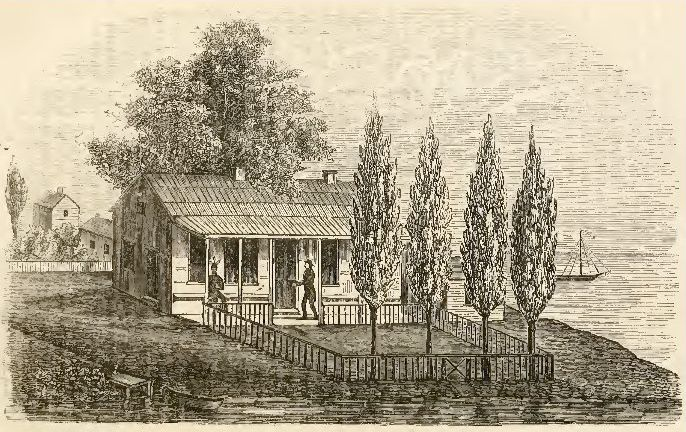
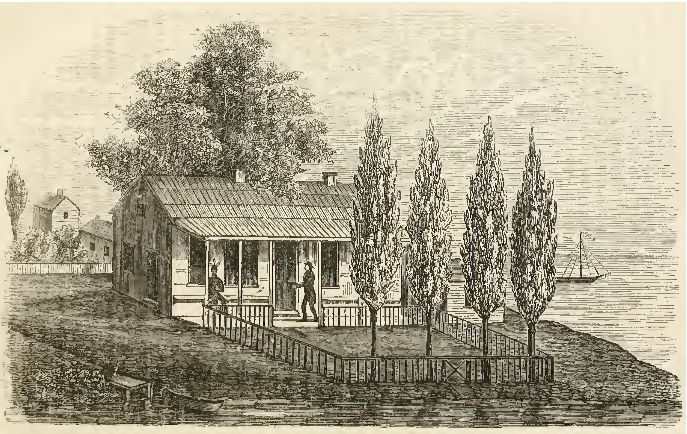
Landing: photo matches shot inside the live scene, best-verdict pairs, and the hero "g"
The owner asked for better matches than the Kimball house (its match
record reads "differs", 30 open differences) and for the model to be
shown in its surroundings rather than alone on a grey plane.

- Every 4D image is now rendered inside the live dev app (chicago.polecat.live/4d/dev/)
  from the reference view's own camera: data/reference_views/<id>/<view>.json's
  focal length, principal point (view offset), basis or yaw, pixel aspect and
  footprint-frame eye, carried into world coordinates through the structure's
  scene placement (local_e/local_n/rotation_deg, as tools/photo_match_group.mjs
  defines the frame) and the app's own ground height. Streets, neighbours,
  enclosures, furniture and terrain come with it; trees and flora are switched
  off because, in the app's summer, they hid the buildings.
- Six pairs, chosen by the match records' verdicts and image rights:
  1904 — Glessner House from the north-east (Taylor 2135, AIC, matches),
  the Keith house (Inland Architect Feb. 1888, cleared, matches), First
  Presbyterian Church (Otis 1913 plate of 1887, matches); 1835 — the
  Sauganash Hotel with Philo Carpenter's shop (Andreas 1884; close, 4 open
  differences), the Miller house at Wolf Point (Blanchard/Shober 1867,
  NYPL, matches); 1812 — the Kinzie house (Chicago Magazine 1857; close,
  8 open differences). Each card shows that verdict.
- Pairs keep their photograph's own aspect ratio.
- Hero: the headline's line mask clipped the "g" of Chicago; its bottom
[…]

diff --git a/site/index.html b/site/index.html
@@ -184,8 +184,9 @@
       <div class="kick">Photo-matched · then and the model</div>
       <h2>Held up against <em>the original.</em></h2>
       <p>For every archival photograph or engraving of a building, we solve the camera that took it — the lens, the
-      standpoint, the bearing — and render the model from exactly there. Where the two disagree, the model changes.
-      These are the working comparisons, not beauty shots.</p>
+      standpoint, the bearing — then stand inside 4D Chicago at exactly that spot and look. The streets, the neighbours and
+      the ground come with it; trees are switched off where they would hide the building. Each pair carries the
+      builder’s own verdict.</p>
     </div>
     <div class="era-tabs reveal" role="group" aria-label="Filter by year">
       <button type="button" data-era="all" aria-pressed="true">All</button>
@@ -197,67 +198,51 @@
     <div class="matches">
       <figure class="match reveal" data-era="1904" style="--d:0">
         <div class="match-pair">
-          <div class="match-img"><img src="media/match/glessner-a.jpg" alt="Glessner House: the archival image" loading="lazy"><span class="tag">Archive</span></div>
-          <div class="match-img"><img src="media/match/glessner-r.jpg" alt="Glessner House: the 4D model seen from the fitted camera" loading="lazy"><span class="tag live">4D, same camera</span></div>
+          <div class="match-img" style="aspect-ratio:1000/939"><img src="media/match/g2135-a.jpg" alt="Glessner House, from the north-east: the archival picture" loading="lazy"><span class="tag">Archive</span></div>
+          <div class="match-img" style="aspect-ratio:1000/939"><img src="media/match/g2135-r.jpg" alt="Glessner House, from the north-east: 4D Chicago, seen through the same camera" loading="lazy"><span class="tag live">4D Chicago · same camera</span></div>
         </div>
-        <figcaption><span class="era">1904</span><b>Glessner House</b><span class="place">1800 S. Prairie Avenue · built 1887</span>
-          <p>The north front and stable wing on Eighteenth Street, from the HABS survey’s own standpoint.</p><small>Historic American Buildings Survey photograph, Library of Congress</small></figcaption>
+        <figcaption><span class="era">1904</span><b>Glessner House, from the north-east</b><span class="place">Prairie Avenue &amp; Eighteenth · with the Keith house beyond</span>
+          <p>The granite north front, the Keith house beyond it and Prairie Avenue running south — taken from the photographer’s standpoint across the corner.</p><span class="verdict ok">Matches</span><small>J. W. Taylor photograph no. 2135, c. 1887–1889 — Art Institute of Chicago, Ryerson &amp; Burnham Archives</small></figcaption>
       </figure>
       <figure class="match reveal" data-era="1904" style="--d:1">
         <div class="match-pair">
-          <div class="match-img"><img src="media/match/kimball-a.jpg" alt="Kimball house: the archival image" loading="lazy"><span class="tag">Archive</span></div>
-          <div class="match-img"><img src="media/match/kimball-r.jpg" alt="Kimball house: the 4D model seen from the fitted camera" loading="lazy"><span class="tag live">4D, same camera</span></div>
+          <div class="match-img" style="aspect-ratio:674/953"><img src="media/match/keith88-a.jpg" alt="The Keith house: the archival picture" loading="lazy"><span class="tag">Archive</span></div>
+          <div class="match-img" style="aspect-ratio:674/953"><img src="media/match/keith88-r.jpg" alt="The Keith house: 4D Chicago, seen through the same camera" loading="lazy"><span class="tag live">4D Chicago · same camera</span></div>
         </div>
-        <figcaption><span class="era">1904</span><b>Kimball house</b><span class="place">1801 S. Prairie Avenue · built 1892</span>
-          <p>The south-west corner: the turret, the tall chimneys and the side entrance stair.</p><small>HABS photograph, June 1965, Library of Congress</small></figcaption>
+        <figcaption><span class="era">1904</span><b>The Keith house</b><span class="place">1808 S. Prairie Avenue · Cobb &amp; Frost, 1887</span>
+          <p>The bay, the porch and the parapet as the plate shows them, with Glessner House’s red roof next door.</p><span class="verdict ok">Matches</span><small>“Residence for O. R. Keith”, The Inland Architect, February 1888</small></figcaption>
       </figure>
       <figure class="match reveal" data-era="1904" style="--d:2">
         <div class="match-pair">
-          <div class="match-img"><img src="media/match/pullman-a.jpg" alt="Pullman house: the archival image" loading="lazy"><span class="tag">Archive</span></div>
-          <div class="match-img"><img src="media/match/pullman-r.jpg" alt="Pullman house: the 4D model seen from the fitted camera" loading="lazy"><span class="tag live">4D, same camera</span></div>
+          <div class="match-img" style="aspect-ratio:679/1000"><img src="media/match/firstpres-a.jpg" alt="First Presbyterian Church: the archival picture" loading="lazy"><span class="tag">Archive</span></div>
+          <div class="match-img" style="aspect-ratio:679/1000"><img src="media/match/firstpres-r.jpg" alt="First Presbyterian Church: 4D Chicago, seen through the same camera" loading="lazy"><span class="tag live">4D Chicago · same camera</span></div>
         </div>
-        <figcaption><span class="era">1904</span><b>Pullman house</b><span class="place">1729 S. Prairie Avenue</span>
-          <p>Matched to the photographer’s lens: focal length 1,610 px, eye 1.6 m above the walk.</p><small>J. W. Taylor photograph no. 1445, 1890s — Art Institute of Chicago, Ryerson &amp; Burnham Archives</small></figcaption>
+        <figcaption><span class="era">1904</span><b>First Presbyterian Church</b><span class="place">Indiana Avenue &amp; Twenty-first Street</span>
+          <p>The spire, the gabled front and the nave down Twenty-first Street, among the row of brick houses beside it.</p><span class="verdict ok">Matches</span><small>Plate in Philo A. Otis, The First Presbyterian Church, 1833–1913 (1913), showing the church in 1887</small></figcaption>
       </figure>
       <figure class="match reveal" data-era="1835" style="--d:0">
         <div class="match-pair">
-          <div class="match-img"><img src="media/match/stmarys-a.jpg" alt="St. Mary’s Church: the archival image" loading="lazy"><span class="tag">Archive</span></div>
-          <div class="match-img"><img src="media/match/stmarys-r.jpg" alt="St. Mary’s Church: the 4D model seen from the fitted camera" loading="lazy"><span class="tag live">4D, same camera</span></div>
+          <div class="match-img" style="aspect-ratio:1000/643"><img src="media/match/sauganash-a.jpg" alt="The Sauganash Hotel: the archival picture" loading="lazy"><span class="tag">Archive</span></div>
+          <div class="match-img" style="aspect-ratio:1000/643"><img src="media/match/sauganash-r.jpg" alt="The Sauganash Hotel: 4D Chicago, seen through the same camera" loading="lazy"><span class="tag live">4D Chicago · same camera</span></div>
         </div>
-        <figcaption><span class="era">1835</span><b>St. Mary’s Church</b><span class="place">Lake &amp; State · Chicago’s first Catholic church</span>
-          <p>The bell-cupola, the cross and the plain frame nave, fitted to the engraver’s corner view.</p><small>Engraving in A. T. Andreas, History of Chicago, 1884</small></figcaption>
+        <figcaption><span class="era">1835</span><b>The Sauganash Hotel</b><span class="place">Lake &amp; Market · with Philo Carpenter’s log shop</span>
+          <p>The two-storey frame hotel, its chimneys and porch posts, and the log shop at its side — Chicago’s first drugstore.</p><span class="verdict close">Close · 4 open differences</span><small>“The Sauganash Hotel”, wood engraving in A. T. Andreas, History of Chicago, 1884</small></figcaption>
       </figure>
       <figure class="match reveal" data-era="1835" style="--d:1">
         <div class="match-pair">
-          <div class="match-img"><img src="media/match/greentree-a.jpg" alt="Green Tree Inn: the archival image" loading="lazy"><span class="tag">Archive</span></div>
-          <div class="match-img"><img src="media/match/greentree-r.jpg" alt="Green Tree Inn: the 4D model seen from the fitted camera" loading="lazy"><span class="tag live">4D, same camera</span></div>
+          <div class="match-img" style="aspect-ratio:1000/884"><img src="media/match/wolfpoint-a.jpg" alt="The Miller house at Wolf Point: the archival picture" loading="lazy"><span class="tag">Archive</span></div>
+          <div class="match-img" style="aspect-ratio:1000/884"><img src="media/match/wolfpoint-r.jpg" alt="The Miller house at Wolf Point: 4D Chicago, seen through the same camera" loading="lazy"><span class="tag live">4D Chicago · same camera</span></div>
         </div>
-        <figcaption><span class="era">1835</span><b>Green Tree Inn</b><span class="place">Lake &amp; Canal streets</span>
-          <p>Two storeys of five bays, the gable chimneys and the low wing beside it.</p><small>“The Green Tree Inn — 1838”, Andreas, History of Chicago, 1884</small></figcaption>
+        <figcaption><span class="era">1835</span><b>The Miller house at Wolf Point</b><span class="place">The point between the North Branch and the main stem</span>
+          <p>The house on the point and the buildings across the water, from the lithographer’s station on the far bank.</p><span class="verdict ok">Matches</span><small>“Wolf’s Point in 1833”, lithograph by Rufus Blanchard and Chas. Shober &amp; Co., 1867 — New York Public Library</small></figcaption>
       </figure>
-      <figure class="match reveal" data-era="1835" style="--d:2">
+      <figure class="match reveal" data-era="1812" style="--d:2">
         <div class="match-pair">
-          <div class="match-img"><img src="media/match/drawbridge-a.jpg" alt="Dearborn Street drawbridge: the archival image" loading="lazy"><span class="tag">Archive</span></div>
-          <div class="match-img"><img src="media/match/drawbridge-r.jpg" alt="Dearborn Street drawbridge: the 4D model seen from the fitted camera" loading="lazy"><span class="tag live">4D, same camera</span></div>
-        </div>
-        <figcaption><span class="era">1835</span><b>Dearborn Street drawbridge</b><span class="place">Built 1834 across the main stem</span>
-          <p>The paired lifting leaves and their gallows frames, set on the piers the plate shows.</p><small>“Dearborn Street Drawbridge, built in 1834”, Andreas, 1884</small></figcaption>
-      </figure>
-      <figure class="match reveal" data-era="1812" style="--d:0">
-        <div class="match-pair">
-          <div class="match-img"><img src="media/match/kinzie57-a.jpg" alt="The Kinzie house: the archival image" loading="lazy"><span class="tag">Archive</span></div>
-          <div class="match-img"><img src="media/match/kinzie57-r.jpg" alt="The Kinzie house: the 4D model seen from the fitted camera" loading="lazy"><span class="tag live">4D, same camera</span></div>
+          <div class="match-img" style="aspect-ratio:687/434"><img src="media/match/kinzie57-a.jpg" alt="The Kinzie house: the archival picture" loading="lazy"><span class="tag">Archive</span></div>
+          <div class="match-img" style="aspect-ratio:687/434"><img src="media/match/kinzie57-r.jpg" alt="The Kinzie house: 4D Chicago, seen through the same camera" loading="lazy"><span class="tag live">4D Chicago · same camera</span></div>
         </div>
         <figcaption><span class="era">1812</span><b>The Kinzie house</b><span class="place">North bank, opposite the fort</span>
-          <p>The porch, the low roof and the row of Lombardy poplars along the river front.</p><small>Engraving, Chicago Magazine, 1857</small></figcaption>
-      </figure>
-      <figure class="match reveal" data-era="1812" style="--d:1">
-        <div class="match-pair">
-          <div class="match-img"><img src="media/match/lees-a.jpg" alt="Lee’s Place (Hardscrabble): the archival image" loading="lazy"><span class="tag">Archive</span></div>
-          <div class="match-img"><img src="media/match/lees-r.jpg" alt="Lee’s Place (Hardscrabble): the 4D model seen from the fitted camera" loading="lazy"><span class="tag live">4D, same camera</span></div>
-        </div>
-        <figcaption><span class="era">1812</span><b>Lee’s Place (Hardscrabble)</b><span class="place">South Branch farm, 1812</span>
-          <p>The farm cabin placed where the drawing stands it, on the open prairie.</p><small>Plate in J. Seymour Currey, 1912 (Project Gutenberg)</small></figcaption>
+          <p>The porch house behind its paling fence, set back from the river on the open bank.</p><span class="verdict close">Close · 8 open differences</span><small>“The Kinzie House”, wood engraving, The Chicago Magazine, March 1857</small></figcaption>
       </figure>
     </div>
   </div>

diff --git a/site/css/home.css b/site/css/home.css
@@ -105,7 +105,7 @@ img, svg, video { display: block; }
 .rec i { width: 8px; height: 8px; border-radius: 50%; background: var(--red); animation: pulse 2.2s ease-out infinite; }
 @keyframes pulse { 0% { box-shadow: 0 0 0 0 rgba(255,59,79,.7) } 80%,100% { box-shadow: 0 0 0 10px transparent } }
 .hero h1 { margin: 22px 0 0; max-width: 1000px; font-weight: 600; font-size: clamp(46px, 8vw, 116px); line-height: .95; letter-spacing: -.045em; }
-.hero h1 .line { display: block; overflow: hidden; padding-bottom: .06em; }
+.hero h1 .line { display: block; overflow: hidden; padding-bottom: .2em; margin-bottom: -.14em; }
 .hero h1 .w { display: inline-block; transform: translateY(105%); opacity: 0; animation: rise 1.1s var(--ease) forwards; animation-delay: calc(.2s + var(--i) * .08s); }
 .hero h1 em { font-family: var(--serif); font-style: italic; font-weight: 400; letter-spacing: -.02em; color: #ffd9a8; }
 @keyframes rise { to { transform: none; opacity: 1; } }
@@ -270,8 +270,8 @@ img, svg, video { display: block; }
 .match:hover { border-color: var(--line-2); transform: translateY(-3px); }
 .match.hide { display: none; }
 .match-pair { display: grid; grid-template-columns: 1fr 1fr; gap: 2px; background: var(--line); }
-.match-img { position: relative; aspect-ratio: 4 / 3; background: #e9e6df; overflow: hidden; }
-.match-img img { width: 100%; height: 100%; object-fit: contain; transition: transform 1s var(--ease); }
+.match-img { position: relative; aspect-ratio: 4 / 3; background: #e9e6df; overflow: hidden; align-self: start; }
+.match-img img { width: 100%; height: 100%; object-fit: cover; transition: transform 1s var(--ease); }
 .match-img + .match-img { background: #dfe1e3; }
 .match:hover .match-img img { transform: scale(1.04); }
 .match-img .tag { position: absolute; left: 10px; top: 10px; padding: 5px 9px; border-radius: 999px; background: rgba(7,9,15,.72); color: #fff; font: 500 10px/1 var(--mono); letter-spacing: .1em; text-transform: uppercase; }
@@ -360,3 +360,7 @@ img, svg, video { display: block; }
 .lib-col a:hover .ic { transform: translate(2px, -2px); color: var(--accent); }
 @media (max-width: 1100px) { .lib { grid-template-columns: repeat(2, 1fr); } }
 @media (max-width: 640px) { .lib { grid-template-columns: 1fr; } }
+.verdict { justify-self: start; margin-top: 8px; padding: 4px 10px; border-radius: 999px; font: 500 11px/1.2 var(--mono); letter-spacing: .06em; }
+.verdict.ok { color: #3fae6a; background: color-mix(in srgb, #3fae6a 14%, transparent); border: 1px solid color-mix(in srgb, #3fae6a 40%, transparent); }
+.verdict.close { color: var(--accent); background: color-mix(in srgb, var(--accent) 12%, transparent); border: 1px solid color-mix(in srgb, var(--accent) 35%, transparent); }
+.match-img img { background: #0c1018; }
